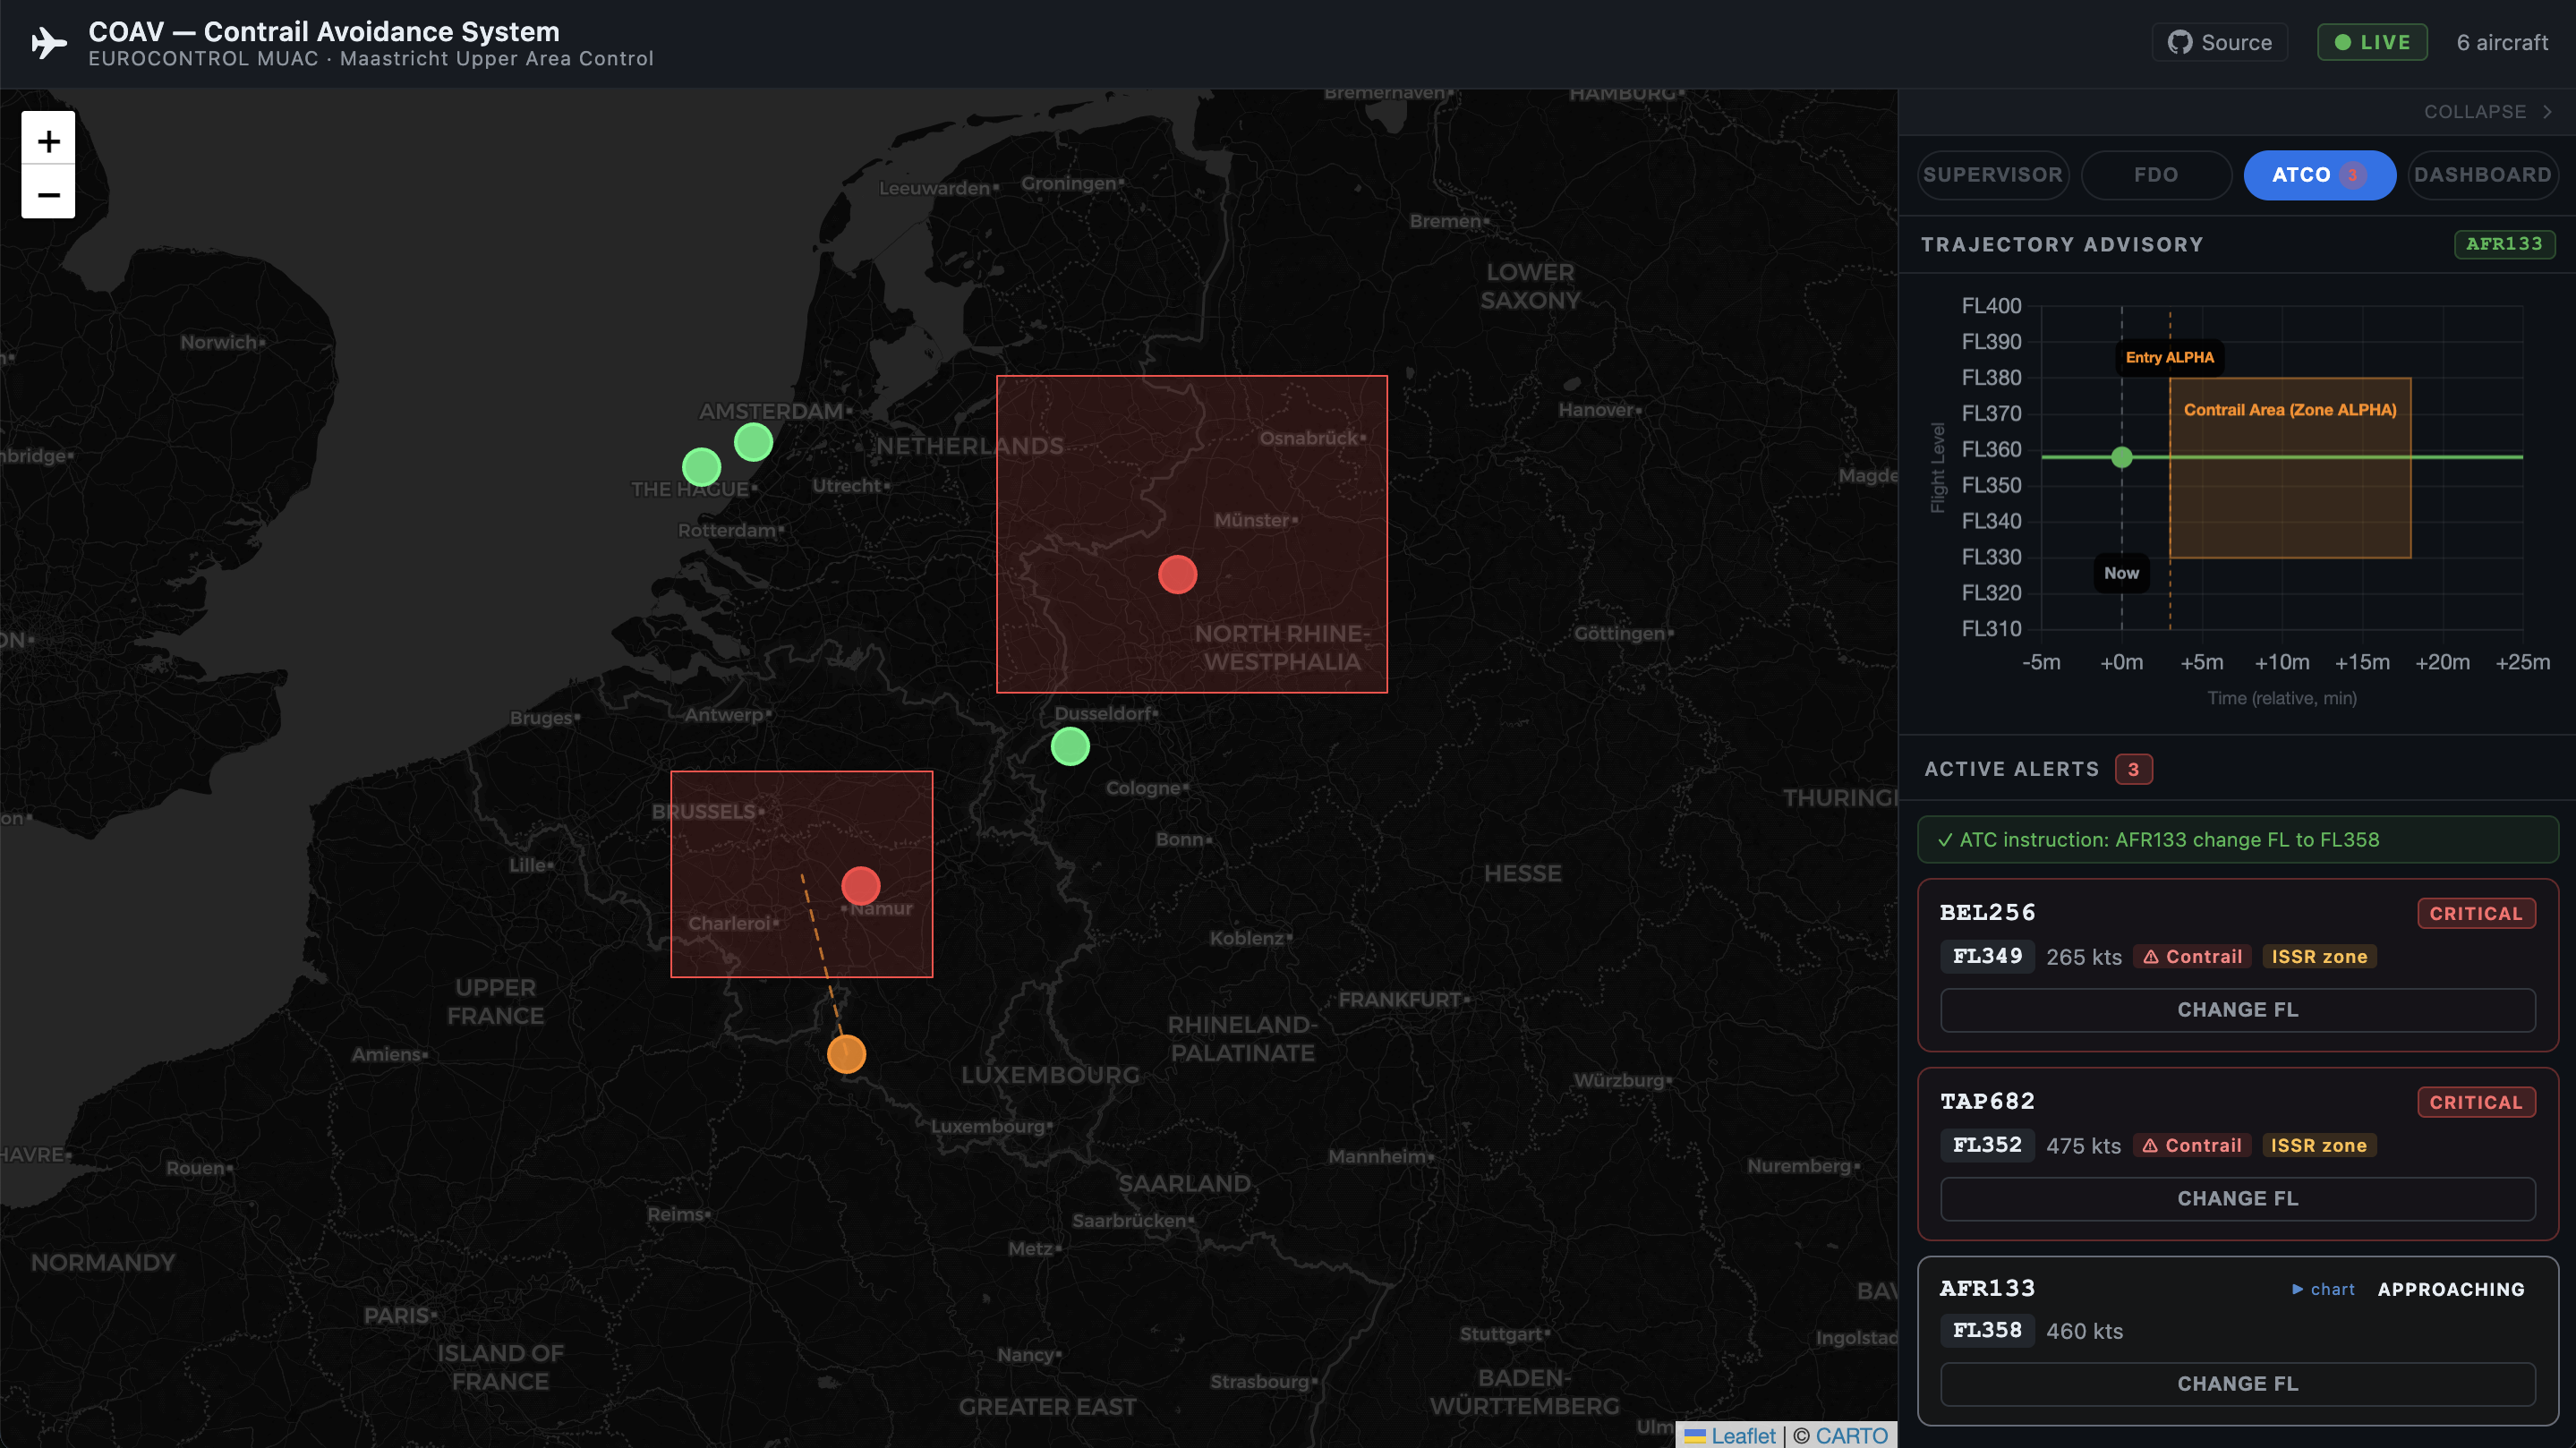
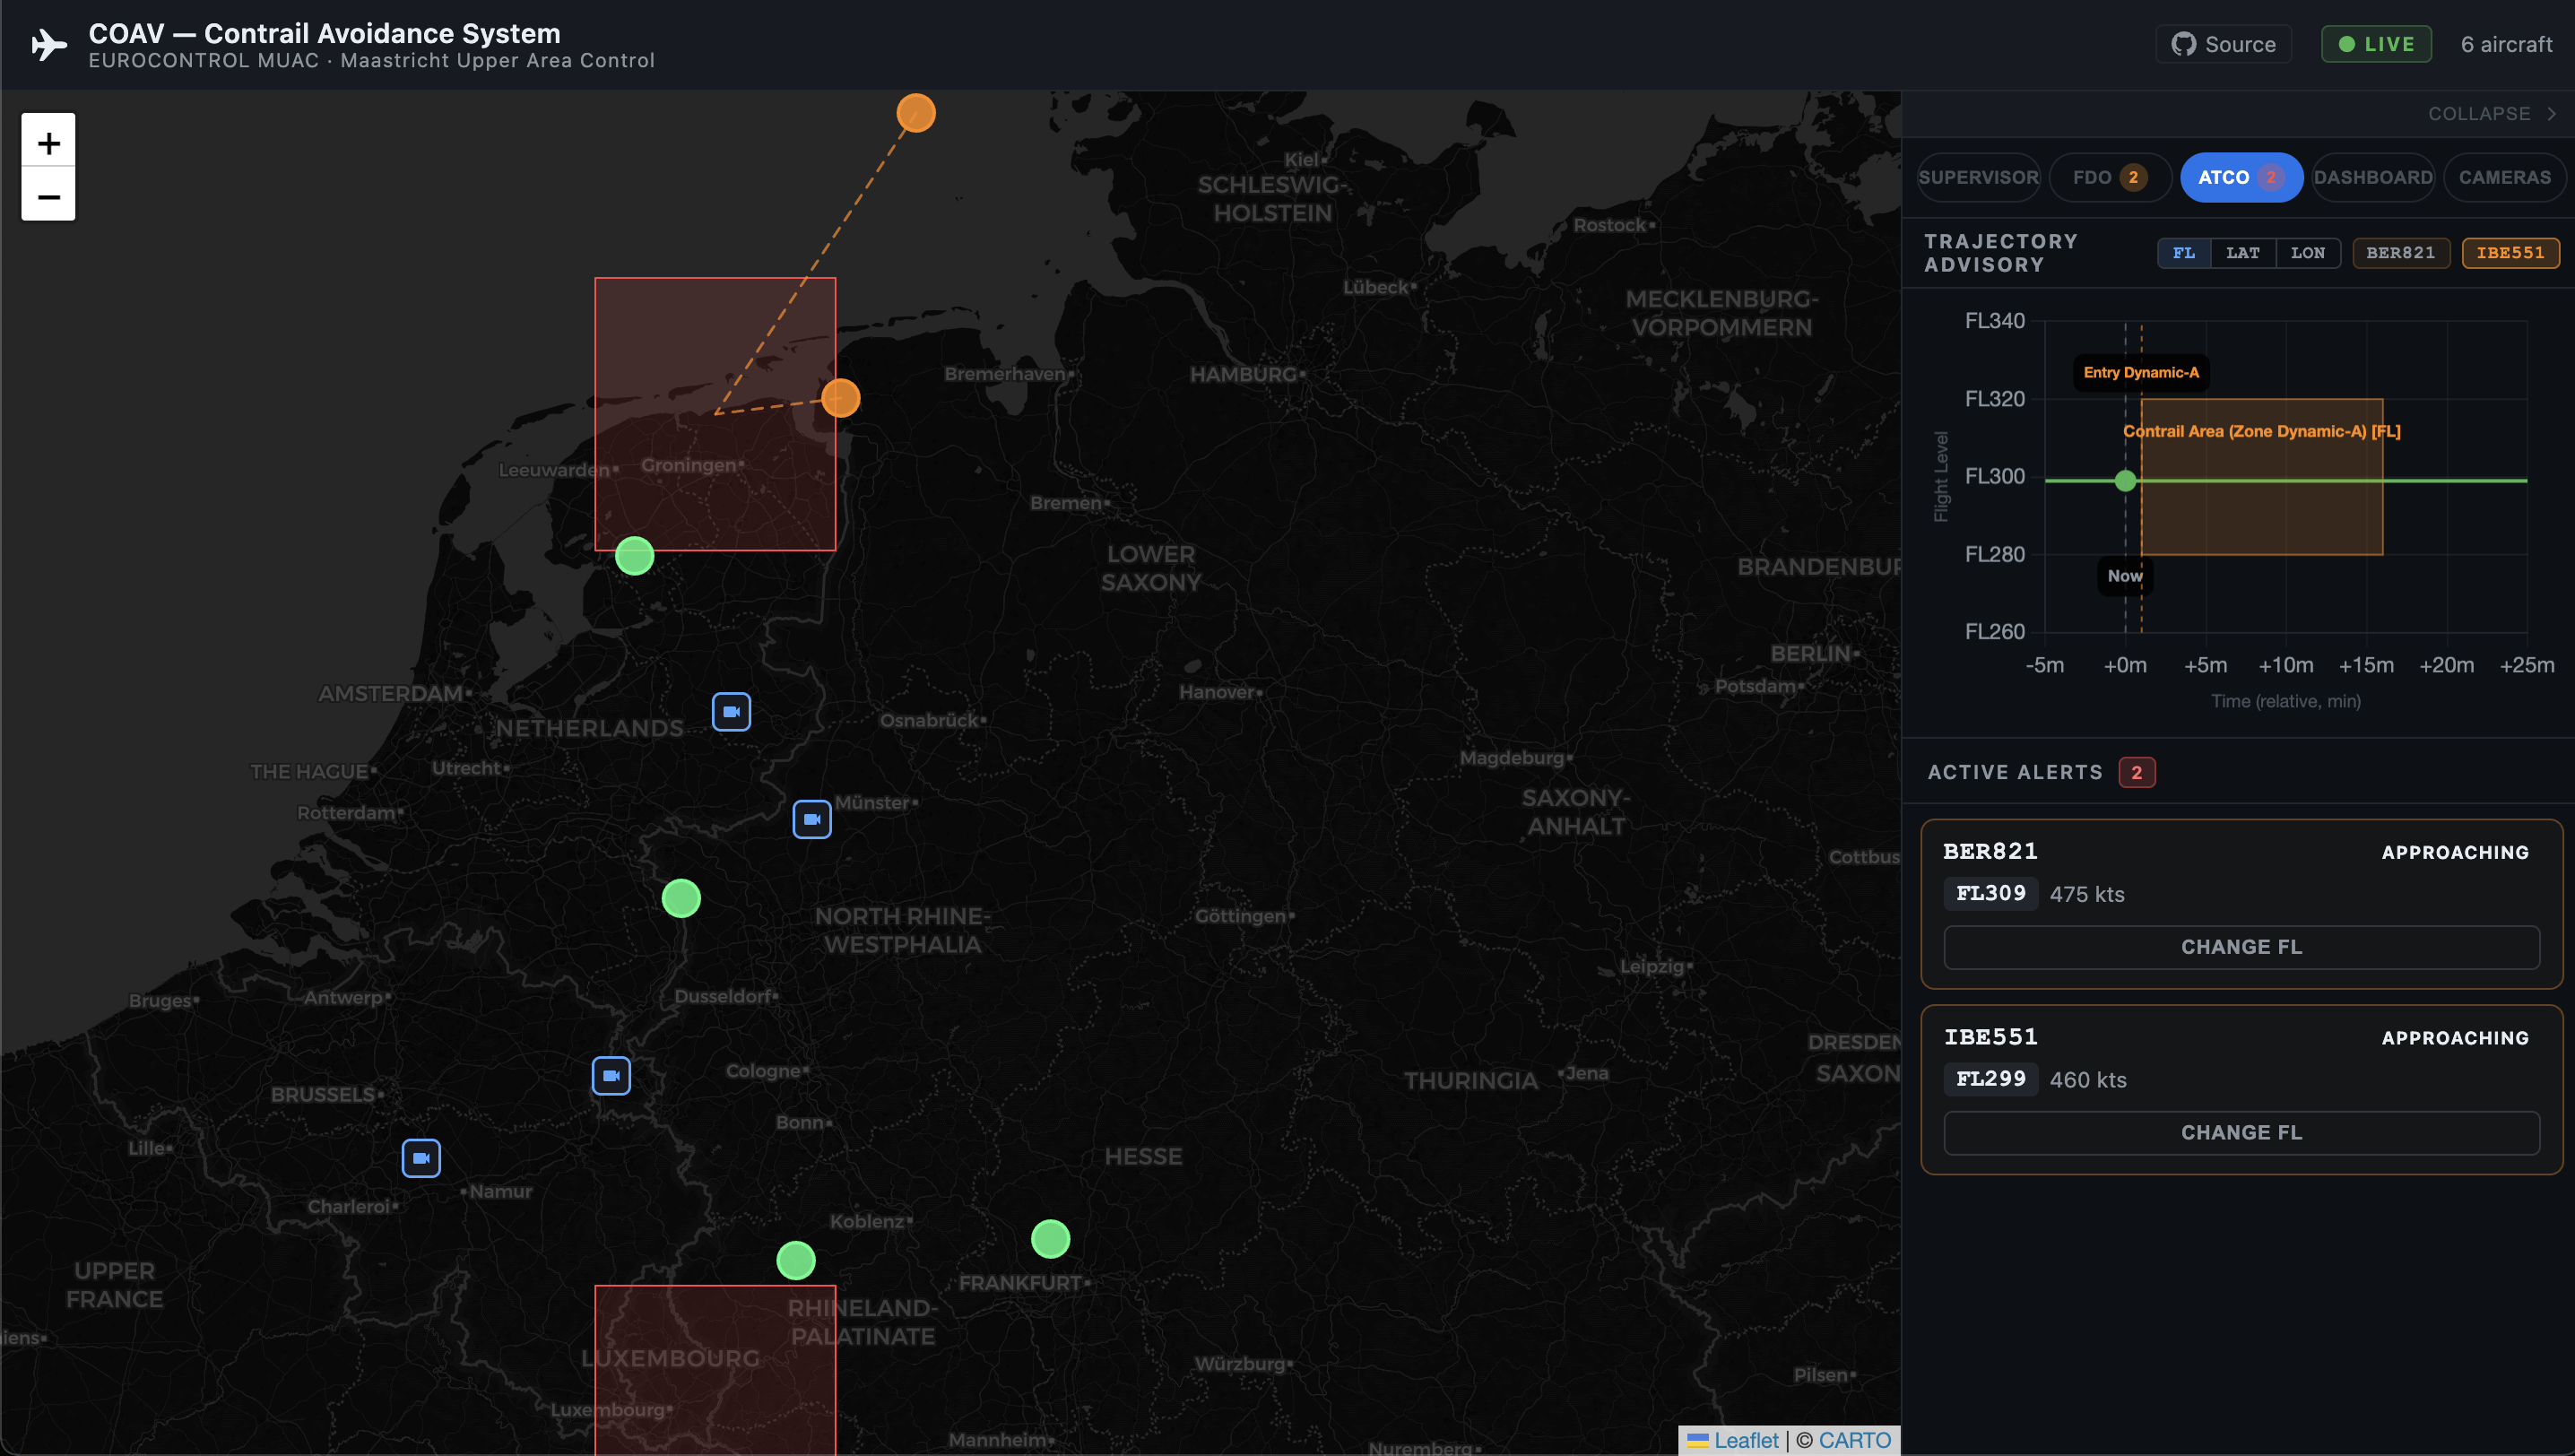
Docs fixes and new screen

diff --git a/README.md b/README.md
@@ -89,20 +89,26 @@ simulator, so no Event Hub or credentials are required. ISSR zones are still liv
 > Use **Docker Desktop**, not the minikube Docker context. If you previously ran
 > `eval $(minikube docker-env)`, reset it first: `eval $(minikube docker-env -u)`
 
+**1. Backend** — build once, then run in mock mode:
+
 ```sh
-# 1. Backend — build once, run in mock mode
 docker build -t coav-gui-backend:v1 ./coav-gui/backend
 docker run -d -p 8080:8080 -e SPRING_PROFILES_ACTIVE=mock --name coav-backend coav-gui-backend:v1
-
 curl http://localhost:8080/api/flights
 curl http://localhost:8080/api/issr-zones
+```
 
-# 2. Frontend — Vite dev server (proxies /api and /ws → :8080)
+**2. Frontend** — Vite dev server on `http://localhost:5173`, proxying `/api` and `/ws` to `:8080`. `npm install` is only needed the first time.
+
+```sh
 cd coav-gui/frontend
-npm install          # once
-npm run dev          # → http://localhost:5173
+npm install
+npm run dev
+```
 
-# Stop the backend when done
+Stop the backend when done:
+
+```sh
 docker stop coav-backend && docker rm coav-backend
 ```
 
@@ -113,15 +119,17 @@ docker stop coav-backend && docker rm coav-backend
 Runs the real edge→cloud data path: the emulator publishes ADS-B + camera telemetry to Event
 Hub, and the backend consumes it live.
 
+Prerequisites — terraform, python3, azure-cli:
+
 ```sh
-# Prerequisites: terraform, python3, azure-cli
 brew install terraform python azure-cli
 cd edge-emulator && pip3 install -r requirements.txt && cd ..
 az login
 ```
 
+**1. Provision test infrastructure** (Event Hub, Storage, Databricks workspace):
+
 ```sh
-# 1. Provision test infrastructure (Event Hub, Storage, Databricks workspace)
 cd terraform
 terraform init
 terraform apply
@@ -129,25 +137,26 @@ export CONN_STR=$(terraform output -raw eventhub_connection_string)
 ```
 <img src="images/tf-apply.png" width="544" />
 
+**2. Start the emulator** — 7 aircraft: 4 transit corridors (BAW/DLH/KLM/AFR), 2 holding stacks (BEL256 Brussels DENUT / KLM892 Amsterdam SUGOL), 1 departure (TUI6KL). Each transit flight keeps its callsign for the full crossing — no synchronized resets.
+
 ```sh
-# 2. Start the emulator — 7 aircraft: 4 transit corridors (BAW/DLH/KLM/AFR),
-#    2 holding stacks (BEL256 Brussels DENUT / KLM892 Amsterdam SUGOL), 1 departure (TUI6KL).
-#    Each transit flight keeps its callsign for the full crossing — no synchronized resets.
 cd ../edge-emulator
 python3 emulator.py
 ```
 <img src="images/emulating.png" width="644" />
 
+**3. Backend in Azure mode** — consumes live Event Hub data (skip the `build` if you already built the image above):
+
 ```sh
-# 3. Backend in Azure mode — consumes live Event Hub data
-docker build -t coav-gui-backend:v1 ./coav-gui/backend   # if not built already
+docker build -t coav-gui-backend:v1 ./coav-gui/backend
 docker run -d -p 8080:8080 -e CONN_STR="$CONN_STR" --name coav-backend coav-gui-backend:v1
 curl http://localhost:8080/api/flights
 docker stop coav-backend && docker rm coav-backend
 ```
 
+Destroy the stack when done to save money:
+
 ```sh
-# Destroy the stack when done to save money
 cd ../terraform && terraform destroy -auto-approve
 ```
 <img src="images/tf-destroy.png" width="457" />
@@ -156,18 +165,28 @@ cd ../terraform && terraform destroy -auto-approve
 
 All of these run automatically in CI (`.github/workflows/ci.yml`, path-filtered).
 
+Backend — 104 JUnit tests (Maven runs inside Docker; no local JDK needed):
+
 ```sh
-# Backend — 104 JUnit tests (Maven runs inside Docker; no local JDK needed)
 docker run --rm -v "$PWD/coav-gui/backend":/build -w /build \
   maven:3.9-eclipse-temurin-21-alpine mvn test
+```
 
-# Emulator — 24 tests (incl. OWASP input validation)
+Emulator — 24 tests (incl. OWASP input validation):
+
+```sh
 cd edge-emulator && python3 -m pytest test_emulator.py -v && cd ..
+```
 
-# Edge-Pi inference — 71 tests
+Edge-Pi inference — 71 tests:
+
+```sh
 cd edge-pi/python && python3 -m pytest test_inference.py test_capture.py -v && cd ../..
+```
 
-# Frontend — unit + Playwright E2E
+Frontend — unit + Playwright E2E:
+
+```sh
 cd coav-gui/frontend && npm test && npm run test:e2e && cd ../..
 ```
 <img src="images/pytest.png" width="755" />
@@ -301,11 +320,15 @@ Azure issues the certificate automatically (up to 20 min). No frontend code chan
 
 ## Teardown cloud deployment
 
-```sh
-# GUI + emulator + ACR
-cd terraform/app && terraform destroy -auto-approve
+GUI + emulator + ACR:
 
-# Event Hub + Storage + Databricks
+```sh
+cd terraform/app && terraform destroy -auto-approve
+```
+
+Event Hub + Storage + Databricks:
+
+```sh
 cd terraform && terraform destroy -auto-approve
 ```
 
@@ -351,8 +374,9 @@ Runs on push to `main` only. Steps:
 
 CD authenticates to Azure with a service principal stored as a repo secret.
 
+Create a service principal scoped to the resource group and capture its JSON output:
+
 ```sh
-# Create an SP scoped to the resource group and capture the JSON
 az ad sp create-for-rbac \
   --name coav-github-cd \
   --role contributor \

diff --git a/docs/EXPERIMENT_HISTORY.md b/docs/EXPERIMENT_HISTORY.md
@@ -22,21 +22,27 @@ the repo as evidence of the migration, not as a live component.
 
 Minikube deploy of the Python prototype (historical):
 
+Start the cluster and build the image inside its daemon:
+
 ```sh
 brew install kubectl minikube
 minikube start --cpus=2 --memory=4096 --driver=docker
 kubectl get nodes
-
-# Build inside the cluster daemon
 eval $(minikube docker-env)
 minikube image build -t coav-backend:v1 ./backend
+```
 
-# Secret + deploy
+Create the secret and deploy:
+
+```sh
 kubectl create secret generic coav-secrets --from-literal=eventhub-cn="$CONN_STR"
 kubectl apply -f k8s/deployment.yaml
 kubectl logs deployment/coav-backend-deployment --tail=50 -f
+```
 
-# Tear down
+Tear down:
+
+```sh
 kubectl delete deployment coav-backend-deployment --ignore-not-found=true
 kubectl delete secret coav-secrets --ignore-not-found=true
 minikube stop && minikube delete --all --purge
@@ -58,8 +64,11 @@ kubectl apply -f k8s/coav-gui-backend-deployment.yaml
 kubectl get pods -l app=coav-gui-backend
 kubectl port-forward svc/coav-gui-backend-svc 8080:8080
 curl http://localhost:8080/api/flights
+```
 
-# Tear down
+Tear down:
+
+```sh
 kubectl delete -f k8s/coav-gui-backend-deployment.yaml
 ```
 
@@ -100,8 +109,11 @@ export DATABRICKS_TOKEN
 
 JOB_ID=$(databricks jobs list --output JSON | jq -r '.[] | select(.settings.name == "Run Coav Stream Processing") | .job_id')
 databricks jobs run-now "$JOB_ID"
+```
 
-# Back to classic auth
+Back to classic auth:
+
+```sh
 unset DATABRICKS_TOKEN
 export DATABRICKS_AUTH_TYPE="azure-cli"
 ```

diff --git a/edge-pi/README.md b/edge-pi/README.md
@@ -232,8 +232,11 @@ az vm create \
 export VM_IP="<ip from above>"
 
 ssh -i ~/.ssh/coav_train azureuser@$VM_IP
+```
 
-# On the VM:
+Then, on the VM, install dependencies and start training:
+
+```sh
 pip3 install torch torchvision --index-url https://download.pytorch.org/whl/cu124
 pip3 install segmentation-models-pytorch albumentations huggingface_hub opencv-python-headless
 
@@ -242,8 +245,11 @@ export HF_REPO="your-username/coav-contrail-checkpoints"
 
 nohup python3 train.py --epochs 40 --work-dir /tmp/coav > train.log 2>&1 &
 tail -f train.log
+```
 
-# When done — stop billing:
+When done, stop billing (run locally):
+
+```sh
 az vm delete --resource-group $RG --name $VM_NAME --yes --no-wait
 ```
 
@@ -253,12 +259,12 @@ az vm delete --resource-group $RG --name $VM_NAME --yes --no-wait
 
 ## Dataset
 
-```sh
-# GVCCS: Ground Visible Camera Contrail Sequences
-# EUROCONTROL MUAC · CC BY 4.0 · DOI 10.5281/zenodo.15743988
-# ~2.1 GB — auto-downloaded by train.py and both notebooks
+**GVCCS** — Ground Visible Camera Contrail Sequences · EUROCONTROL MUAC · CC BY 4.0 · DOI
[phone redacted]/zenodo.15743988 · ~2.1 GB, auto-downloaded by `train.py` and both notebooks.
 
-# Manual download:
+Manual download:
+
+```sh
 export DATA_DIR="edge-pi/data"
 wget 'https://zenodo.org/records/15743988/files/GVCCS.zip?download=1' -O $DATA_DIR/GVCCS.zip
 unzip $DATA_DIR/GVCCS.zip -d $DATA_DIR/
@@ -302,5 +308,6 @@ export PREDICTIONS="my_predictions.json"
 python3 edge-pi/python/eval_annotations.py \
     --gt  $GT_ANNOTATIONS \
     --pred $PREDICTIONS
-# Reports per-image IoU, Precision, Recall, F1, Detection rate
 ```
+
+Reports per-image IoU, precision, recall, F1, and detection rate.

diff --git a/coav-gui/backend/README.md b/coav-gui/backend/README.md
@@ -81,11 +81,13 @@ docker stop coav-backend && docker rm coav-backend
 
 ```sh
 brew install maven
-
 cd coav-gui/backend
 mvn test
+```
 
-# Single test class
+Run a single test class:
+
+```sh
 mvn test -Dtest=FlightStateStoreTest
 ```
 

diff --git a/coav-gui/frontend/README.md b/coav-gui/frontend/README.md
@@ -23,17 +23,17 @@ COAV GUI frontend. Requires the Java backend running at `:8080`.
 cd coav-gui/frontend
 npm install
 npm run dev
-# → http://localhost:5173
 ```
 
-Vite proxies `/api` and `/ws` to `http://localhost:8080` — no CORS configuration needed.
+Serves on `http://localhost:5173`. Vite proxies `/api` and `/ws` to `http://localhost:8080` — no CORS configuration needed.
 
 ## Production build
 
 ```sh
 npm run build
-# Output in dist/ — serve with any static file server
 ```
+
+Output goes to `dist/` — serve it with any static file server.
 
 ## Back to project root
 [Main README](../../README.md)